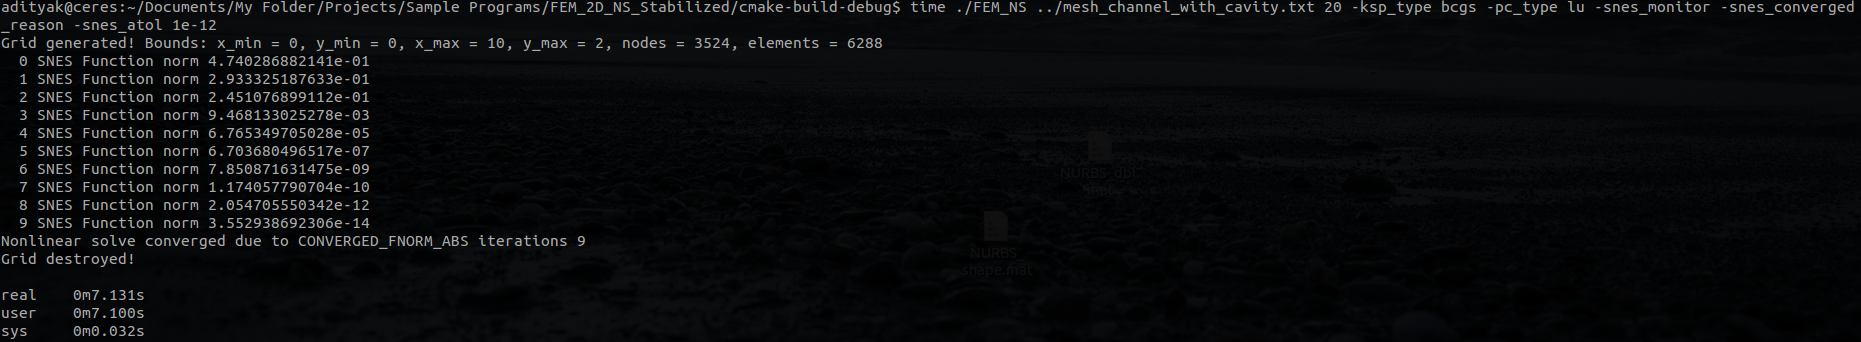
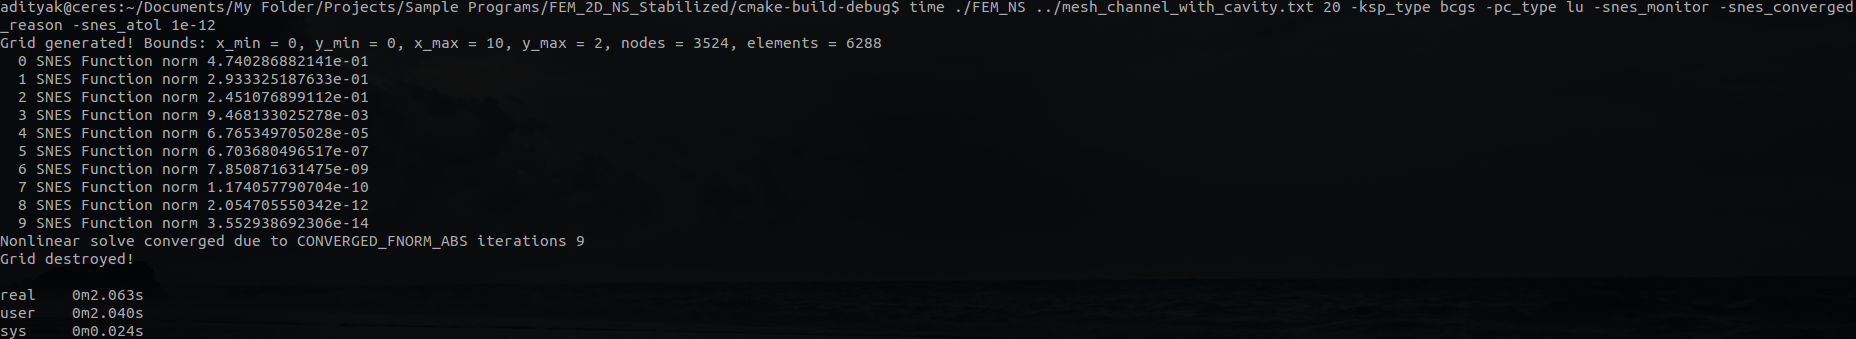
added preallocation for performance boost

Changed region(s): [[0.0, 0.0, 0.5, 0.7965], [0.25, 0.0, 1.0, 0.059], [0.0, 0.826, 0.0938, 1.0]]

diff --git a/src/Mesh.cpp b/src/Mesh.cpp
@@ -11,6 +11,7 @@
 using namespace std;
 
 extern PetscErrorCode FormFunction(SNES, Vec, Vec, void *);
+
 extern PetscErrorCode FormJacobian(SNES, Vec, Mat, Mat, void *);
 
 // constructor
@@ -29,15 +30,28 @@ Mesh::Mesh(string &fileName, double &Re_in) : meshFileName(fileName), Re(Re_in) 
     for (auto &it : mesh)
         it.calcElementStiffness();
 
-    MatCreate(PETSC_COMM_WORLD, &J);
-    MatCreate(PETSC_COMM_WORLD, &J_const);
-    //MatCreateSeqAIJ(PETSC_COMM_WORLD, (PetscInt) (3 * nodes.size()), (PetscInt) (3 * nodes.size()), PETSC_DEFAULT, NULL, &J);
-    MatSetSizes(J, PETSC_DECIDE, PETSC_DECIDE, (PetscInt) (3 * nodes.size()), (PetscInt) (3 * nodes.size()));
-    MatSetUp(J);
+
+//    MatCreate(PETSC_COMM_WORLD, &J);
+//    MatCreate(PETSC_COMM_WORLD, &J_const);
+//
+//    MatSetSizes(J, PETSC_DECIDE, PETSC_DECIDE, (PetscInt) (3 * nodes.size()), (PetscInt) (3 * nodes.size()));
+//    MatSetSizes(J_const, PETSC_DECIDE, PETSC_DECIDE, (PetscInt) (3 * nodes.size()), (PetscInt) (3 * nodes.size()));
+//
+//    MatSetUp(J);
+//    MatSetUp(J_const);
+
+    PetscInt nz_const = 30, nz = 30;
+    MatCreateSeqAIJ(PETSC_COMM_WORLD, (PetscInt) (3 * nodes.size()), (PetscInt) (3 * nodes.size()), nz_const, NULL, &J_const);
+    MatCreateSeqAIJ(PETSC_COMM_WORLD, (PetscInt) (3 * nodes.size()), (PetscInt) (3 * nodes.size()), nz, NULL, &J);
+
+    MatSeqAIJSetPreallocation(J_const, nz_const, NULL);
+    MatSeqAIJSetPreallocation(J, nz, NULL);
+    MatSetOption(J, MAT_NEW_NONZERO_ALLOCATION_ERR, PETSC_FALSE);
+    MatSetOption(J_const, MAT_NEW_NONZERO_ALLOCATION_ERR, PETSC_FALSE);
+
     MatZeroEntries(J);
-    MatSetSizes(J_const, PETSC_DECIDE, PETSC_DECIDE, (PetscInt) (3 * nodes.size()), (PetscInt) (3 * nodes.size()));
-    MatSetUp(J_const);
     MatZeroEntries(J_const);
+
     VecCreate(PETSC_COMM_WORLD, &x);
     VecSetSizes(x, PETSC_DECIDE, (PetscInt) (3 * nodes.size()));
     VecSetFromOptions(x);
@@ -107,22 +121,22 @@ void Mesh::setInitialField() {
         for (size_t i = 0; i < 3; i++) {
             new_ind_i = 3 * nodeIDs[i]; // global mapping
             /*lid-driven cavity*/
-            if (fabs(elemCoords[i][1] - y_max) < 1e-5) { // top boundary: x-velocity = 1
+            /*if (fabs(elemCoords[i][1] - y_max) < 1e-5) { // top boundary: x-velocity = 1
                 VecSetValues(x, 1, &new_ind_i, &one, INSERT_VALUES);
             } else if ((fabs(elemCoords[i][0] - x_max) < 1e-5) &&
                        (fabs(elemCoords[i][1] - y_min) < 1e-5)) { // bottom right corner: pressure = 1
                 i1 = new_ind_i + 2;
                 VecSetValues(x, 1, &i1, &one, INSERT_VALUES);
-            }
+            }*/
             /*channel flow*/
-            /*if (fabs(elemCoords[i][0] - x_min) < 1e-5) { // left boundary: x-velocity = 1
+            if (fabs(elemCoords[i][0] - x_min) < 1e-5) { // left boundary: x-velocity = 1
                 VecSetValues(x, 1, &new_ind_i, &one, INSERT_VALUES);
             } else if (fabs(elemCoords[i][0] - x_max) < 1e-5) { // right boundary: pressure = 0
                 i1 = new_ind_i + 2;
                 VecSetValues(x, 1, &i1, &zero, INSERT_VALUES);
             } else { // for channel with obstruction - set initial velocity guess to uniform flow or zero
                 VecSetValues(x, 1, &new_ind_i, &zero, INSERT_VALUES);
-            }*/
+            }
             /*channel with backward step*/
             /*if (fabs(elemCoords[i][0] - x_min) < 1e-5) { // left boundary: x-velocity = parabolic (developed)
                 guess_val = 16 * (1.0 - elemCoords[i][1]) * (-0.5 + elemCoords[i][1]);
@@ -186,7 +200,7 @@ void Mesh::Assemble() {
 
             /*lid-driven cavity*/
             // left, right, bottom, top boundaries for velocities (and bottom right corner for pressure) - Dirichlet BCs
-            if ((((elemCoords[i / 3][0] == x_min) || (elemCoords[i / 3][0] == x_max) ||
+            /*if ((((elemCoords[i / 3][0] == x_min) || (elemCoords[i / 3][0] == x_max) ||
                   (elemCoords[i / 3][1] == y_min) ||
                   (elemCoords[i / 3][1] == y_max)) && ((i % 3) < 2)) || ((fabs(elemCoords[i / 3][0] - x_max) < 1e-5) &&
                                                                          (fabs(elemCoords[i / 3][1] - y_min) < 1e-5) &&
@@ -210,50 +224,50 @@ void Mesh::Assemble() {
                                         ADD_VALUES);
                     //cout << "Ag for " << nodeIDs[i] << ", " << nodeIDs[j] << ": " << globalStiffness[nodeIDs[i]][nodeIDs[j]] << endl;
                 }
-            }
+            }*/
 
             /*channel flow*/
             // left, bottom, top boundaries for velocities, cavity boundary (if applicable) (and bottom right corner for pressure) - Dirichlet BCs
-//            if ((((elemCoords[i / 3][0] == x_min) ||
-//                  (elemCoords[i / 3][1] == y_min) ||
-//                  (elemCoords[i / 3][1] == y_max)) && ((i % 3) < 2)) || ((fabs(elemCoords[i / 3][0] - x_max) < 1e-5) &&
-//                                                                         ((i % 3) ==
-//                                                                          2)) ||
-//                ((fabs(sqrt(pow(elemCoords[i / 3][0] - 5, 2.0) + pow(elemCoords[i / 3][1] - 1, 2.0)) - 0.5) < 1e-5) &&
-//                 ((i % 3) < 2))) {
-//
-//                /*channel with backward step*/
-//                /*if ((((elemCoords[i / 3][0] == x_min) ||
-//                      (elemCoords[i / 3][1] == y_min) ||
-//                      (elemCoords[i / 3][1] == y_max)) && ((i % 3) < 2)) ||
-//                    (((fabs(elemCoords[i / 3][0] - 1.0) < 1e-5) && (elemCoords[i / 3][1] >= y_min) &&
-//                      (elemCoords[i / 3][1] <= 0.5)) && ((i % 3) < 2)) ||
-//                    (((fabs(elemCoords[i / 3][1] - 0.5) < 1e-5) && (elemCoords[i / 3][0] >= x_min) &&
-//                      (elemCoords[i / 3][0] <= 1.0)) && ((i % 3) < 2)) || ((fabs(elemCoords[i / 3][0] - x_max) < 1e-5) &&
-//                                                                           (fabs(elemCoords[i / 3][1] - y_min) < 1e-5) &&
-//                                                                           ((i % 3) ==
-//                                                                            2))) {*/
-//                //ierr = MatSetValues(J, 1, &new_ind_i, 1, &new_ind_i, &one, INSERT_VALUES);
-//                ierr = MatSetValues(J_const, 1, &new_ind_i, 1, &new_ind_i, &one, INSERT_VALUES);
-//                it.setElemFlag(i, false);
-//            } else {
-////                ierr = MatAssemblyBegin(J, MAT_FLUSH_ASSEMBLY);
-////                ierr = MatAssemblyEnd(J, MAT_FLUSH_ASSEMBLY);
-//                ierr = MatAssemblyBegin(J_const, MAT_FLUSH_ASSEMBLY);
-//                ierr = MatAssemblyEnd(J_const, MAT_FLUSH_ASSEMBLY);
-//                for (size_t j = 0; j < 9; j++) {
-//                    //globalStiffness[nodeIDs[i]][nodeIDs[j]] += elemStiffness[i][j];
-//                    norm_coeff = elemStiffness[i][j] / Re;
-//                    new_nodeID_j = (j < 3) ? (nodeIDs[0]) : (((j >= 3) && (j < 6)) ? (nodeIDs[1]) : (
-//                            nodeIDs[2]));
-//                    new_ind_j = 3 * new_nodeID_j + (PetscInt) j % 3;
-//                    //ierr = MatSetValues(J, 1, &new_ind_i, 1, &new_ind_j, &norm_coeff,
-//                    //                    ADD_VALUES);
-//                    ierr = MatSetValues(J_const, 1, &new_ind_i, 1, &new_ind_j, &norm_coeff,
-//                                        ADD_VALUES);
-//                    //cout << "Ag for " << nodeIDs[i] << ", " << nodeIDs[j] << ": " << globalStiffness[nodeIDs[i]][nodeIDs[j]] << endl;
-//                }
-//            }
+            if ((((elemCoords[i / 3][0] == x_min) ||
+                  (elemCoords[i / 3][1] == y_min) ||
+                  (elemCoords[i / 3][1] == y_max)) && ((i % 3) < 2)) || ((fabs(elemCoords[i / 3][0] - x_max) < 1e-5) &&
+                                                                         ((i % 3) ==
+                                                                          2)) ||
+                ((fabs(sqrt(pow(elemCoords[i / 3][0] - 5, 2.0) + pow(elemCoords[i / 3][1] - 1, 2.0)) - 0.5) < 1e-5) &&
+                 ((i % 3) < 2))) {
+
+                /*channel with backward step*/
+                /*if ((((elemCoords[i / 3][0] == x_min) ||
+                      (elemCoords[i / 3][1] == y_min) ||
+                      (elemCoords[i / 3][1] == y_max)) && ((i % 3) < 2)) ||
+                    (((fabs(elemCoords[i / 3][0] - 1.0) < 1e-5) && (elemCoords[i / 3][1] >= y_min) &&
+                      (elemCoords[i / 3][1] <= 0.5)) && ((i % 3) < 2)) ||
+                    (((fabs(elemCoords[i / 3][1] - 0.5) < 1e-5) && (elemCoords[i / 3][0] >= x_min) &&
+                      (elemCoords[i / 3][0] <= 1.0)) && ((i % 3) < 2)) || ((fabs(elemCoords[i / 3][0] - x_max) < 1e-5) &&
+                                                                           (fabs(elemCoords[i / 3][1] - y_min) < 1e-5) &&
+                                                                           ((i % 3) ==
+                                                                            2))) {*/
+                //ierr = MatSetValues(J, 1, &new_ind_i, 1, &new_ind_i, &one, INSERT_VALUES);
+                ierr = MatSetValues(J_const, 1, &new_ind_i, 1, &new_ind_i, &one, INSERT_VALUES);
+                it.setElemFlag(i, false);
+            } else {
+//                ierr = MatAssemblyBegin(J, MAT_FLUSH_ASSEMBLY);
+//                ierr = MatAssemblyEnd(J, MAT_FLUSH_ASSEMBLY);
+                ierr = MatAssemblyBegin(J_const, MAT_FLUSH_ASSEMBLY);
+                ierr = MatAssemblyEnd(J_const, MAT_FLUSH_ASSEMBLY);
+                for (size_t j = 0; j < 9; j++) {
+                    //globalStiffness[nodeIDs[i]][nodeIDs[j]] += elemStiffness[i][j];
+                    norm_coeff = elemStiffness[i][j] / Re;
+                    new_nodeID_j = (j < 3) ? (nodeIDs[0]) : (((j >= 3) && (j < 6)) ? (nodeIDs[1]) : (
+                            nodeIDs[2]));
+                    new_ind_j = 3 * new_nodeID_j + (PetscInt) j % 3;
+                    //ierr = MatSetValues(J, 1, &new_ind_i, 1, &new_ind_j, &norm_coeff,
+                    //                    ADD_VALUES);
+                    ierr = MatSetValues(J_const, 1, &new_ind_i, 1, &new_ind_j, &norm_coeff,
+                                        ADD_VALUES);
+                    //cout << "Ag for " << nodeIDs[i] << ", " << nodeIDs[j] << ": " << globalStiffness[nodeIDs[i]][nodeIDs[j]] << endl;
+                }
+            }
         }
     }
     //cout << "J assembled!" << endl;
@@ -334,17 +348,17 @@ PetscErrorCode FormFunction(SNES snes, Vec x, Vec f, void *meshPtr) {
     PetscScalar v, v1, v2, v3;
     array<array<double, 9>, 9> temp_vals = {{0}}; // temporary array for Jacobian values
     array<double, 3> basis_values{};
-    array<array<double,2>, 3> der_values{};
+    array<array<double, 2>, 3> der_values{};
     array<array<double, 2>, 3> elemCoords = {{0}};
     PetscInt new_ind_i, new_ind_j, i1, i2, i3, i4, i5, i6, i7, i8, i9, new_nodeID_i, new_nodeID_j, basis_ind;
     array<double, 9> curr_dof_vals = {
             0}; // previous iteration nodal values for (u,v,p) for current element being assembled
     array<double, 3> curr_GP_vals = {0}; // current gauss point values for DOFs for current element assembly
-    array<array<double,2>, 3> curr_GP_val_ders{}; // current gauss point derivative values for DOFs for current element assembly
+    array<array<double, 2>, 3> curr_GP_val_ders{}; // current gauss point derivative values for DOFs for current element assembly
     array<int, 3> curr_nodeIDs = {0}; // node IDs of current element being assembled
     GaussQuad quadObj;
     array<double, 3> gauss_pt_weights = quadObj.getQuadWts();
-    array<array<double,2>, 3> gauss_pts = quadObj.getQuadPts();
+    array<array<double, 2>, 3> gauss_pts = quadObj.getQuadPts();
     double tau_supg, tau_pspg, h = 0, h_hash, z, Re_u, Re_U, u_mag, U_mag = mPtr->one, v_j, v_r;
     array<PetscInt, 9> i_array{};
     array<array<PetscScalar, 3>, 3> A_block{};
@@ -1225,7 +1239,7 @@ PetscErrorCode FormFunction(SNES snes, Vec x, Vec f, void *meshPtr) {
             for (size_t i_supg = 0; i_supg < 3; i_supg++)
                 h += curr_GP_vals[0] * der_values[i_supg][0] + curr_GP_vals[1] * der_values[i_supg][1];
 
-            h = (h < 1e-6) ? 0 : (2.0 * u_mag/ fabs(h));
+            h = (h < 1e-6) ? 0 : (2.0 * u_mag / fabs(h));
             Re_u = u_mag * h * mPtr->Re / 2;
             z = ((Re_u >= 0) && (Re_u <= 3)) ? (Re_u / 3.0) : 1.0;
             tau_supg = (u_mag < 1e-6) ? 0 : (h * z / (2 * u_mag));
@@ -1305,10 +1319,10 @@ PetscErrorCode FormFunction(SNES snes, Vec x, Vec f, void *meshPtr) {
                                                  (basis_values[j / 3] * (der_values[basis_ind][1] *
                                                                          (curr_GP_vals[0] *
                                                                           curr_GP_val_ders[0]
-                                                                                           [0] +
+                                                                          [0] +
                                                                           curr_GP_vals[1] *
                                                                           curr_GP_val_ders[0]
-                                                                                           [1]) +
+                                                                          [1]) +
                                                                          curr_GP_val_ders[0][1] *
                                                                          (curr_GP_vals[0] *
                                                                           der_values[basis_ind][0] +
@@ -1405,16 +1419,16 @@ PetscErrorCode FormFunction(SNES snes, Vec x, Vec f, void *meshPtr) {
                                                  (basis_values[j / 3] * (der_values[basis_ind][0] *
                                                                          (curr_GP_vals[0] *
                                                                           curr_GP_val_ders[1]
-                                                                                           [0] +
+                                                                          [0] +
                                                                           curr_GP_vals[1] *
                                                                           curr_GP_val_ders[1]
-                                                                                           [1]) +
+                                                                          [1]) +
                                                                          curr_GP_val_ders[1][0] *
                                                                          (curr_GP_vals[0] *
                                                                           der_values[basis_ind][0] +
                                                                           curr_GP_vals[1] *
                                                                           der_values[basis_ind]
-                                                                                     [1]))) *
+                                                                          [1]))) *
                                                  it->getBasis().getDetJ();
                         A_block[i / 3][j / 3] += 0.5 * gauss_pt_weights[k] * tau_pspg *
                                                  (der_values[basis_ind][0] * basis_values[j / 3] *
